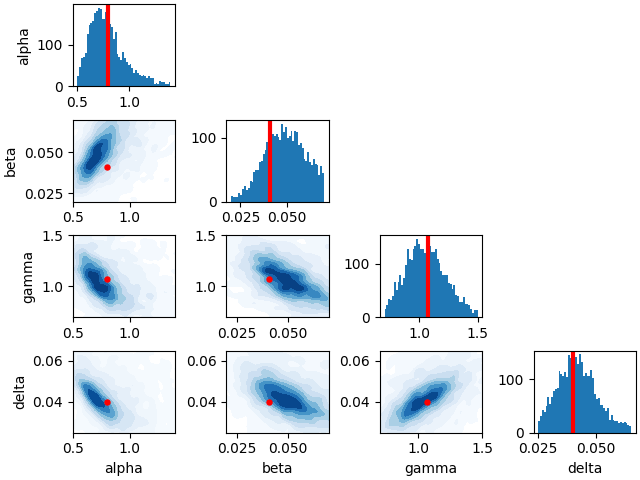
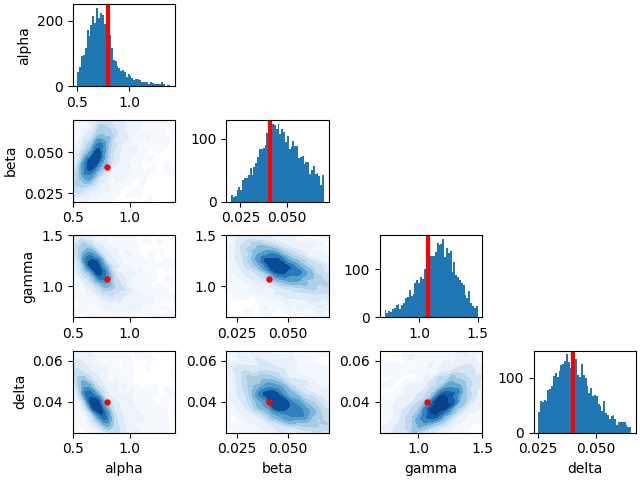
generic commit

diff --git a/scripts/transport/c_transport.py b/scripts/transport/c_transport.py
@@ -624,7 +624,8 @@ def vl_exp(N=10000, n_iter=49, Yd=18, normal=True, exp_name='kvl_exp', n_transpo
                     if i < j:
                         x, y = slice_sample[:, torch.tensor([i, j]).long()].T
                         plt_range = [ranges[key_i], ranges[key_j]]
-                        kdeplot(x=x, y=y, fill=True, bw_adjust=0.4, cmap='Blues')
+                        plt.hist2d(x,y, density=True, bins = 60, range = plt_range, cmin = 0, vmin=0, cmap='Blues')
+                        #kdeplot(x=x, y=y, fill=True, bw_adjust=0.4, cmap='Blues')
                         plt.scatter(x=slice_val[i], y=slice_val[j], s=13, color='red')
                         if plt_range[0][0]!= None:
                             plt.xlim(plt_range[0][0], plt_range[0][1])

diff --git a/scripts/transport/kvae_flow2.py b/scripts/transport/kvae_flow2.py
@@ -707,7 +707,8 @@ def vl_exp(N=10000, n_iter=49, Yd=18, normal=True, exp_name='kvl_exp', n_transpo
                     if i < j:
                         x, y = slice_sample[:, torch.tensor([i, j]).long()].T
                         plt_range = [ranges[key_i], ranges[key_j]]
-                        kdeplot(x=x, y=y, fill=True, bw_adjust=0.4, cmap='Blues')
+                        plt.hist2d(x, y, density=True, bins=60, range=plt_range, cmin=0, vmin=0, cmap='Blues')
+                        #kdeplot(x=x, y=y, fill=True, bw_adjust=0.4, cmap='Blues')
                         plt.scatter(x=slice_val[i], y=slice_val[j], s=13, color='red')
                         if plt_range[0][0]!= None:
                             plt.xlim(plt_range[0][0], plt_range[0][1])
